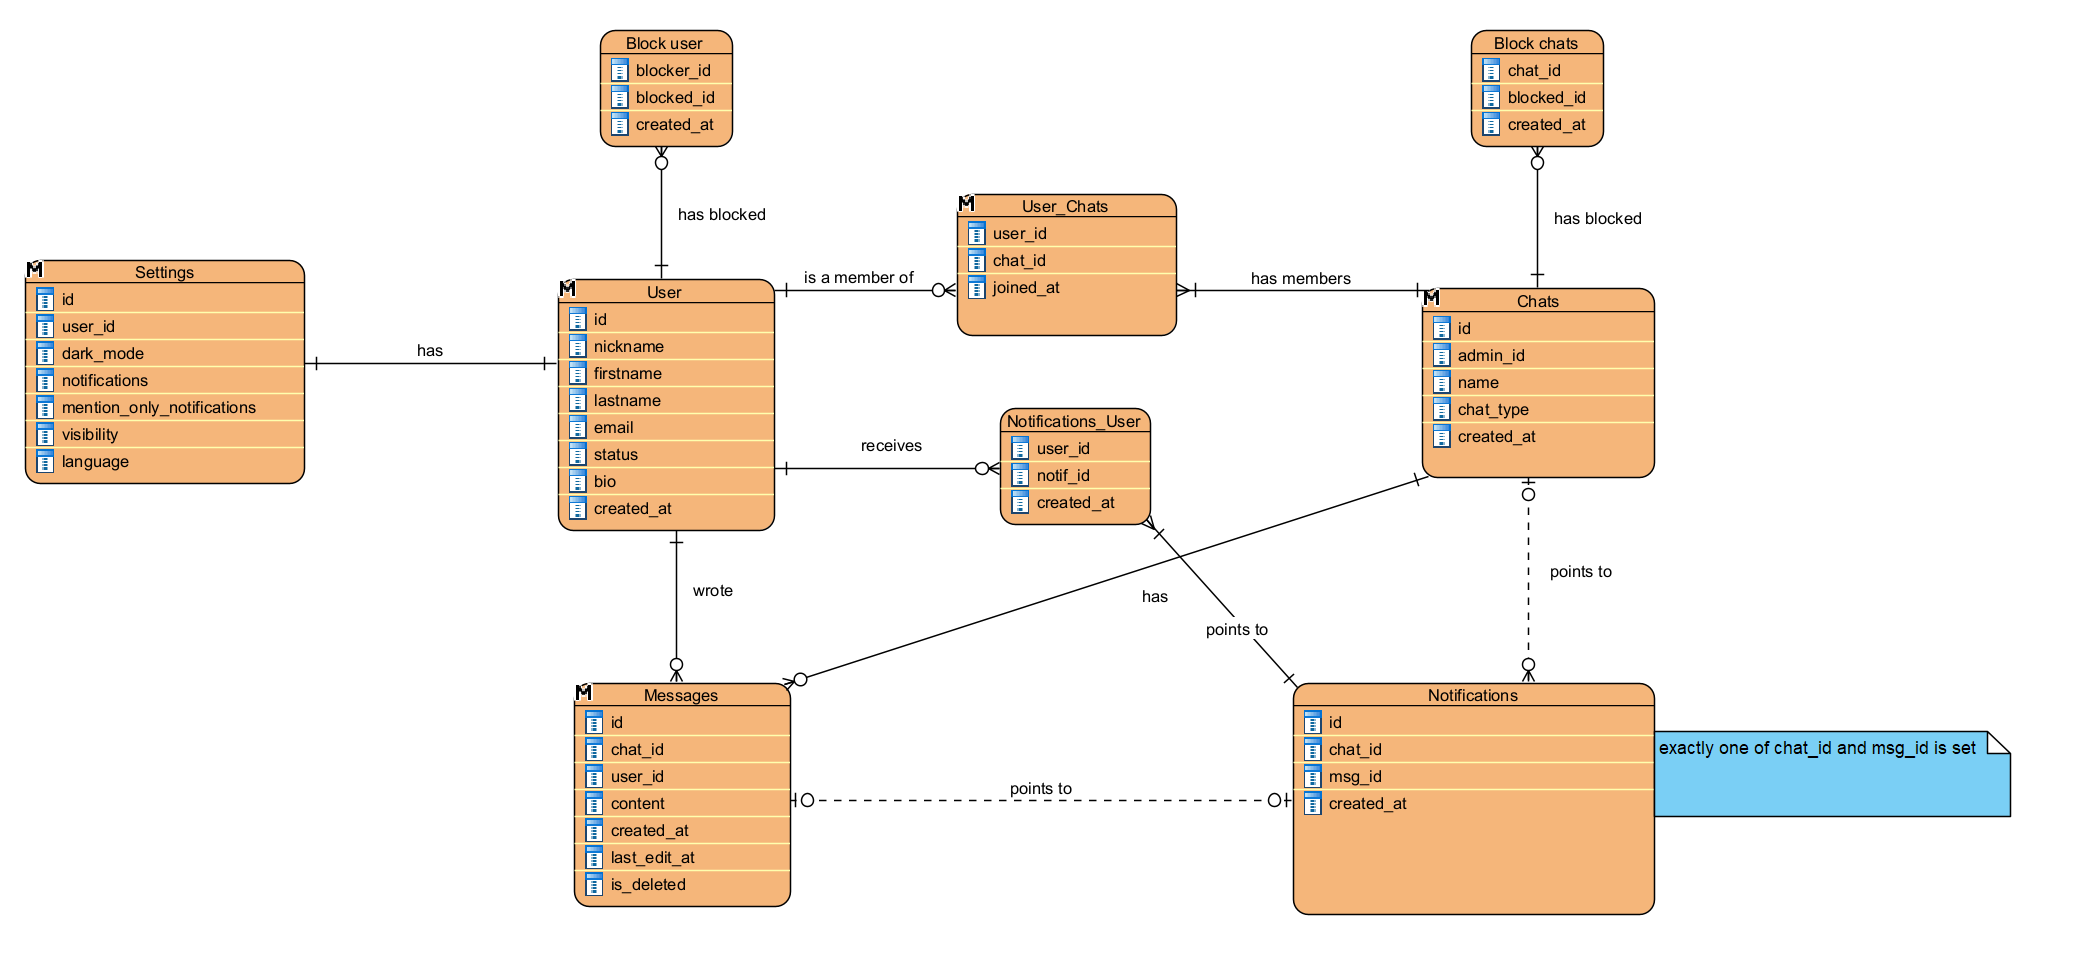
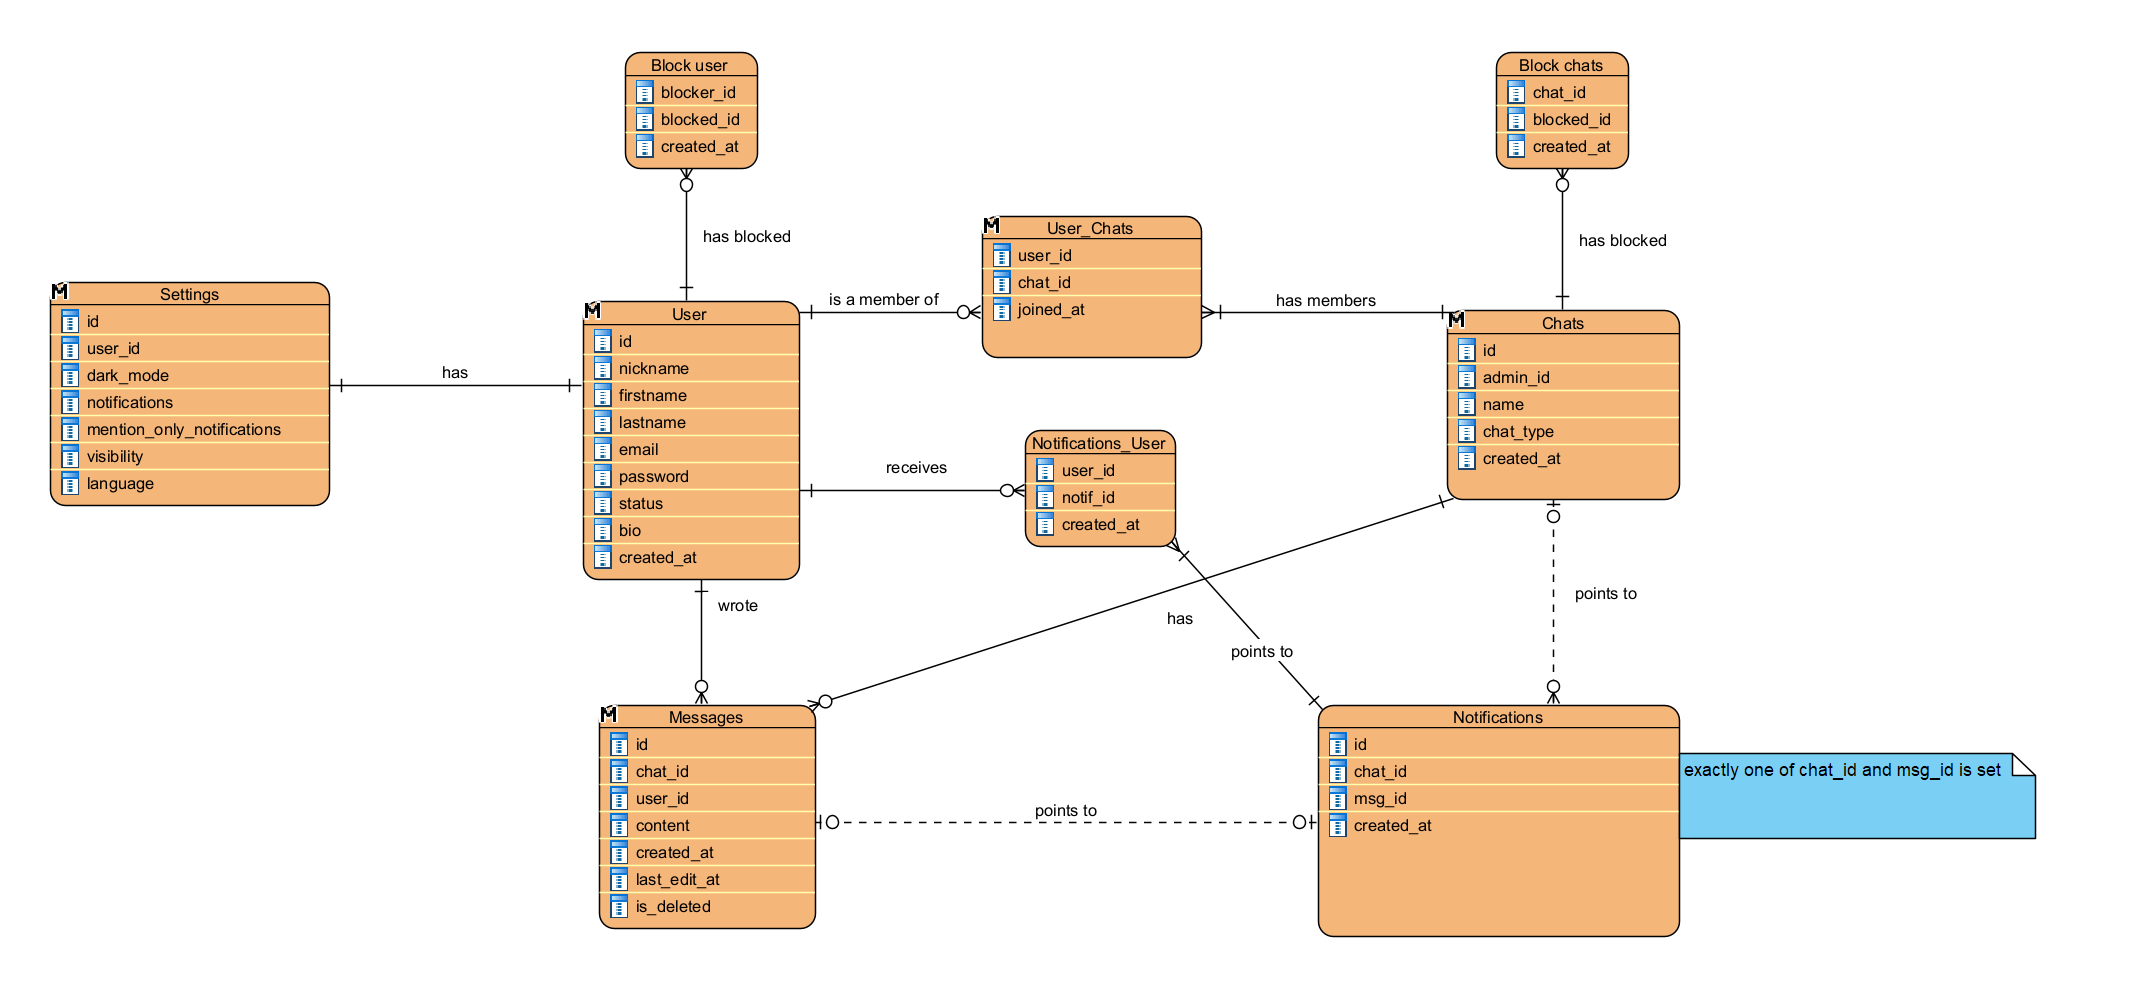
group variety, model fix

diff --git a/src/pages/ChatPage.vue b/src/pages/ChatPage.vue
@@ -27,7 +27,7 @@
       <q-btn flat round dense icon="more_vert" aria-label="More options">
         <q-menu anchor="bottom right" self="top right">
           <q-list style="min-width: 200px">
-            <q-item v-if="chat?.isGroup && chat?.visibility === 'public'" clickable v-close-popup @click="addMember(chat!.id)">
+            <q-item v-if="chat?.isGroup && (chat?.visibility === 'public' || chat?.adminId === me.id)" clickable v-close-popup @click="addMember(chat!.id)">
               <q-item-section avatar><q-icon name="person_add" /></q-item-section>
               <q-item-section>Add member</q-item-section>
             </q-item>
@@ -38,7 +38,12 @@
 
             <q-separator />
 
-            <q-item clickable v-close-popup>
+            <q-item v-if="chat?.isGroup && chat?.adminId === me.id" clickable v-close-popup @click="chatsStore.deleteChat(chat!.id)">
+              <q-item-section avatar><q-icon name="delete" /></q-item-section>
+              <q-item-section class="text-negative">Delete chat</q-item-section>
+            </q-item>
+
+            <q-item v-else clickable v-close-popup>
               <q-item-section avatar><q-icon name="logout" /></q-item-section>
               <q-item-section class="text-negative">Leave chat</q-item-section>
             </q-item>
@@ -276,7 +281,7 @@ function simulatePeerTypingAndReply() {
     'yup, got it, on the way already',
     'let me check the bus schedule',
     'hey hey 👋 what’s up? you doing alrigth?',
-	  'ohhh gotcha, that makes sense now',
+    'ohhh gotcha, that makes sense now',
     'yeah, I totally get what you mean',
     'wait seriously?? no way, I can’t believe this',
     'lol no way that actually cracked me up',
@@ -516,7 +521,7 @@ function isMention(m: Message): boolean {
 
 //public or private indicator
 const chipColor = computed(() => {
-	return chat.value?.visibility === 'public' ? 'positive' : 'grey-6'
+  return chat.value?.visibility === 'public' ? 'positive' : 'grey-6'
 })
 
 </script>

diff --git a/src/mock/chats.ts b/src/mock/chats.ts
@@ -20,6 +20,7 @@ export type Chat = {
   lastStamp: string
   lastPreview: string
   visibility?: 'public' | 'private'
+  adminId?: string
 }
 
 export const me: Member = { id: 'me', name: 'You', avatar: 'https://cdn.quasar.dev/img/boy-avatar.png' }
@@ -107,6 +108,7 @@ export const chats = ref<Chat[]>([
     name: 'Group Chat private',
     isGroup: true,
     visibility: 'private',
+    adminId: 'g1',
     members: [
       me,
       { id: 'g1', name: 'Alex', color: 'orange' },
@@ -126,6 +128,7 @@ export const chats = ref<Chat[]>([
     name: 'Group Chat public',
     isGroup: true,
     visibility: 'public',
+    adminId: 'g11',
     members: [
       me,
       { id: 'g11', name: 'Adam', color: 'orange' },
@@ -139,7 +142,26 @@ export const chats = ref<Chat[]>([
     unread: 0,
     lastStamp: 'Mon',
     lastPreview: 'Adam: this a public group right'
-  }
+  },
+  {
+		id: 'group-me-admin',
+		name: 'Group admin test',
+		isGroup: true,
+		visibility: 'private',
+		adminId: 'me',
+		members: [
+			me,
+			{ id: 'dev1', name: 'Jordan', color: 'purple' },
+			{ id: 'dev2', name: 'Sam', color: 'teal' }
+		],
+		messages: [
+			{ id: 'm1', authorId: 'dev1', text: 'morning team!', createdAt: '2025-03-30T08:00:00Z' },
+			{ id: 'm2', authorId: 'me', text: 'morning! let’s sync up soon', createdAt: '2025-03-30T08:01:00Z' }
+		],
+		unread: 0,
+		lastStamp: 'Mon',
+		lastPreview: 'You: morning! let’s sync up soon'
+	}
 ])
 
 export function getChatById(id: string) {

diff --git a/src/stores/chats.ts b/src/stores/chats.ts
@@ -119,6 +119,10 @@ export const useChatsStore = defineStore('chats', () => {
 		console.log('[chatsStore] addMember requested for chat:', chatId)
 	}
 
+	function deleteChat(chatId: string): void {
+		console.log('[chatsStore] addMember requested for chat:', chatId)
+	}
+
 	return {
 		//pure helpers
 		fmt,
@@ -135,6 +139,7 @@ export const useChatsStore = defineStore('chats', () => {
 		getPeerImg,
 		getPeerLetter,
 		getPeerColor,
-		addMember
+		addMember,
+		deleteChat
 	}
 })
